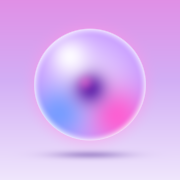
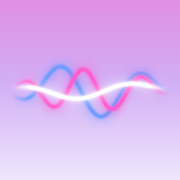
edition update 2026-09-19

Changed region(s): [[0.0833, 0.1389, 0.9167, 0.7778], [0.3056, 0.8333, 0.6944, 0.8889]]

diff --git a/index.html b/index.html
@@ -82,17 +82,11 @@ svg.i{width:20px;height:20px;fill:none;stroke:currentColor;stroke-width:1.6;stro
 .lede{margin:0;color:var(--ink-2);font-size:16px;max-width:32ch;text-wrap:pretty}
 .hero .lede{color:var(--ink);opacity:.75}
 
-.stage{display:flex;flex-direction:column;align-items:center;gap:0;padding-top:6px}
-.orb{--size:164px;--p:0;width:var(--size);aspect-ratio:1;position:relative;border-radius:47% 53% 52% 48%/51% 46% 54% 49%;
-  background:radial-gradient(circle at 32% 24%,rgba(255,255,255,.95) 0,rgba(255,255,255,0) 30%),radial-gradient(circle at 74% 78%,var(--in-b) 0,rgba(255,255,255,0) 52%),radial-gradient(circle at 22% 76%,var(--in-c) 0,rgba(255,255,255,0) 50%),radial-gradient(circle at 50% 50%,#F3E7FF 0,var(--in-a) 100%);
-  box-shadow:inset 0 0 22px rgba(255,255,255,.9),inset -14px -18px 38px rgba(150,50,235,.45),inset 12px 14px 26px rgba(255,255,255,.55),0 0 0 1.5px rgba(255,255,255,.7),0 0 38px rgba(255,120,220,.35);
-  animation:morph 11s ease-in-out infinite;flex:none}
-.orb::before{content:"";position:absolute;inset:0;margin:auto;width:calc(30% + 46% * var(--p));height:calc(30% + 46% * var(--p));border-radius:50%;background:radial-gradient(circle at 40% 35%,var(--in-b),var(--in-core) 70%);filter:blur(7px);opacity:1;transition:width .9s cubic-bezier(.3,1.3,.4,1),height .9s cubic-bezier(.3,1.3,.4,1)}
-.orb::after{content:"";position:absolute;inset:6%;border-radius:inherit;background:radial-gradient(ellipse at 30% 18%,rgba(255,255,255,.75),rgba(255,255,255,0) 38%);mix-blend-mode:screen}
-.orb.out{background:radial-gradient(circle at 32% 24%,rgba(255,255,255,.95) 0,rgba(255,255,255,0) 30%),radial-gradient(circle at 74% 78%,var(--out-b) 0,rgba(255,255,255,0) 52%),radial-gradient(circle at 22% 76%,var(--out-c) 0,rgba(255,255,255,0) 50%),radial-gradient(circle at 50% 50%,#FFF1E6 0,var(--out-a) 100%);box-shadow:inset 0 0 26px rgba(255,255,255,.85),inset -12px -16px 36px rgba(240,80,60,.32),inset 10px 12px 28px rgba(255,255,255,.5),0 0 0 1px rgba(255,255,255,.55)}
-.orb.out::before{background:radial-gradient(circle at 40% 35%,var(--out-b),var(--out-core) 70%)}
-.floor{width:150px;height:16px;border-radius:50%;background:radial-gradient(ellipse,rgba(70,30,140,.30),rgba(70,30,140,0) 70%);margin-top:16px;filter:blur(2px)}
-@keyframes morph{0%,100%{border-radius:47% 53% 52% 48%/51% 46% 54% 49%;transform:translateY(0) rotate(0)}33%{border-radius:53% 47% 46% 54%/46% 54% 48% 52%;transform:translateY(-5px) rotate(4deg)}66%{border-radius:49% 51% 55% 45%/54% 48% 52% 46%;transform:translateY(2px) rotate(-3deg)}}
+.stage{width:calc(100% + 32px);margin-inline:-16px}
+canvas.wave{display:block;width:100%;height:150px;color:var(--ink)}
+canvas.wave.sm{height:66px;margin-top:-6px}
+canvas.wave.bal{height:96px}
+.practice.done canvas.wave{filter:grayscale(1);opacity:.45}
 .count{margin:8px 0 0;font-size:15px;color:var(--ink-2);max-width:32ch;text-wrap:balance}
 .count strong{color:var(--ink);font-weight:600}
 .segs{display:flex;gap:6px;justify-content:center;flex-wrap:wrap;margin-top:2px}
@@ -108,9 +102,9 @@ svg.i{width:20px;height:20px;fill:none;stroke:currentColor;stroke-width:1.6;stro
 .group{background:var(--card);-webkit-backdrop-filter:blur(20px);backdrop-filter:blur(20px);border-radius:26px;box-shadow:var(--shadow);overflow:hidden}
 .group.picks{background:none;-webkit-backdrop-filter:none;backdrop-filter:none;box-shadow:none;overflow:visible;display:flex;flex-direction:column;gap:10px}
 .row{display:flex;gap:13px;padding:16px;width:100%;align-items:flex-start;background:var(--card);-webkit-backdrop-filter:blur(20px);backdrop-filter:blur(20px);border-radius:26px;box-shadow:var(--shadow)}
-.glyph{width:44px;height:44px;border-radius:50%;display:grid;place-items:center;color:var(--ink);flex:none;background:radial-gradient(circle at 30% 25%,#fff,rgba(255,255,255,0) 45%),radial-gradient(circle at 70% 80%,var(--in-b),rgba(255,255,255,0) 60%),var(--in-a);box-shadow:inset 0 0 10px rgba(255,255,255,.8)}
-.glyph.l{background:radial-gradient(circle at 30% 25%,#fff,rgba(255,255,255,0) 45%),radial-gradient(circle at 70% 80%,#9FE3FF,rgba(255,255,255,0) 60%),var(--in-c)}
-.glyph svg.i{width:20px;height:20px;color:#1A0B3A}
+.glyph{width:44px;height:44px;border-radius:50%;display:grid;place-items:center;color:var(--in);flex:none;background:var(--in-soft)}
+.glyph.l{background:color-mix(in srgb,var(--in-c) 20%,var(--card-solid));color:color-mix(in srgb,var(--in-c) 70%,var(--ink))}
+.glyph svg.i{width:20px;height:20px}
 .row-b{flex:1;min-width:0;display:flex;flex-direction:column;gap:5px}
 .meta{font-size:13px;color:var(--ink-3);display:flex;gap:6px;min-width:0;white-space:nowrap;font-variant-numeric:tabular-nums}
 .meta > *{flex:none}.meta > :last-child{flex:0 1 auto;min-width:0;overflow:hidden;text-overflow:ellipsis}.meta > :first-child{flex:none;max-width:64%;overflow:hidden;text-overflow:ellipsis}
@@ -126,20 +120,18 @@ svg.i{width:20px;height:20px;fill:none;stroke:currentColor;stroke-width:1.6;stro
 .tick svg.i{width:13px;height:13px;stroke-width:2.8}
 
 .practice{border-radius:30px;padding:26px 22px 22px;color:var(--ink);background:linear-gradient(160deg,var(--out-a) 0%,#FFD3D6 45%,var(--card-solid) 100%);display:flex;flex-direction:column;align-items:center;text-align:center;gap:12px;width:100%;box-shadow:var(--shadow)}
-.practice .orb{--size:92px;animation-duration:9s}
 .practice .meta{color:var(--ink);opacity:.7;justify-content:center}.practice .meta em{color:var(--ink)}
 .practice h3{margin:0;font-weight:500;font-size:27px;line-height:1.08;letter-spacing:-.035em;text-wrap:balance;max-width:14em}
 .practice p{margin:0;font-size:15px;color:var(--ink);opacity:.72;display:-webkit-box;-webkit-line-clamp:2;-webkit-box-orient:vertical;overflow:hidden;max-width:36ch}
 .pill{display:inline-flex;align-items:center;gap:8px;background:var(--btn);color:var(--btn-ink);font-weight:500;font-size:16px;border-radius:999px;padding:13px 24px;margin-top:4px}
 .pill svg.i{width:14px;height:14px;fill:currentColor;stroke:none}
 .practice.done{background:var(--card)}
-.practice.done .orb{filter:grayscale(1);opacity:.45;animation:none}
 .practice.done h3,.practice.done p{color:var(--ink-3)}
 @media (prefers-color-scheme:dark){:root:not([data-theme="light"]) .practice:not(.done){background:linear-gradient(160deg,#7A3522 0%,#4A2236 50%,var(--card-solid) 100%)}}
 :root[data-theme="dark"] .practice:not(.done){background:linear-gradient(160deg,#7A3522 0%,#4A2236 50%,var(--card-solid) 100%)}
 
 .resurface{background:var(--card);border-radius:26px;padding:16px 18px;display:flex;gap:14px;align-items:center;width:100%;box-shadow:var(--shadow)}
-.resurface .glyph{background:radial-gradient(circle at 30% 25%,#fff,rgba(255,255,255,0) 45%),radial-gradient(circle at 70% 80%,var(--out-b),rgba(255,255,255,0) 60%),var(--out-a)}
+.resurface .glyph{background:var(--out-soft);color:var(--out)}
 .resurface strong{display:block;font-size:17px;font-weight:500;letter-spacing:-.015em}
 .resurface small{font-size:14px;color:var(--ink-2)}
 
@@ -181,7 +173,9 @@ input::placeholder,textarea::placeholder{color:var(--ink-3)}
 .act.closed .meta em{color:var(--ink)}
 
 .ratio{display:flex;flex-direction:column;gap:16px;background:var(--card);-webkit-backdrop-filter:blur(20px);backdrop-filter:blur(20px);border-radius:30px;padding:24px 20px 20px;box-shadow:var(--shadow)}
-.duo{display:grid;grid-template-columns:1fr 1fr;align-items:end;justify-items:center;gap:8px;min-height:150px}
+.duo{display:grid;grid-template-columns:1fr 1fr;align-items:end;justify-items:center;gap:8px}
+.duo .n small::before{content:"";display:inline-block;width:8px;height:8px;border-radius:50%;background:var(--in);margin-right:6px}
+.duo .n + .n small::before{background:var(--out)}
 .duo .n{display:flex;flex-direction:column;align-items:center;gap:10px}
 .duo .n b{font-size:36px;font-weight:500;line-height:1;letter-spacing:-.04em;font-variant-numeric:tabular-nums}
 .duo .n small{font-size:14px;color:var(--ink-2);margin-top:-6px}
@@ -212,8 +206,8 @@ details.more[open] summary{border-bottom:1px solid var(--line)}
 .compass h4{margin:0 0 8px;font-size:13px;font-weight:400;color:var(--ink-3)}
 .compass ul{margin:0;padding:0;list-style:none;display:flex;flex-direction:column;gap:8px}
 .compass li{font-size:16px;padding-left:18px;position:relative;letter-spacing:-.01em}
-.compass li::before{content:"";position:absolute;left:0;top:.42em;width:9px;height:9px;border-radius:50%;background:radial-gradient(circle at 30% 30%,#fff,var(--in-a) 55%,var(--in))}
-.compass .per li::before{background:radial-gradient(circle at 30% 30%,#fff,var(--out-a) 55%,var(--out))}
+.compass li::before{content:"";position:absolute;left:0;top:.42em;width:9px;height:9px;border-radius:50%;background:var(--in)}
+.compass .per li::before{background:var(--out)}
 
 .tabs{position:fixed;left:0;right:0;bottom:0;z-index:20;display:flex;justify-content:center;padding:8px 18px calc(14px + env(safe-area-inset-bottom,0px));pointer-events:none}
 .tabs-in{pointer-events:auto;display:flex;gap:2px;padding:6px;min-width:min(300px,84vw);justify-content:space-between;border-radius:999px;background:color-mix(in srgb,var(--card-solid) 88%,transparent);-webkit-backdrop-filter:saturate(1.6) blur(20px);backdrop-filter:saturate(1.6) blur(20px);box-shadow:0 0 0 1px var(--line),0 16px 40px -12px rgba(50,20,110,.35)}
@@ -347,7 +341,7 @@ function openActions(){return Object.keys(S.actions).map(function(k){return S.ac
 
 /* ---------- views ---------- */
 function render(){var keep=$("#newAction"),kv=keep?keep.value:"",kf=keep&&document.activeElement===keep;
-  var h=S.view==="today"?viewToday():S.view==="do"?viewDo():viewBalance();var ap=$("#app");ap.className="app v-"+S.view;ap.innerHTML=h;renderTabs();
+  var h=S.view==="today"?viewToday():S.view==="do"?viewDo():viewBalance();var ap=$("#app");ap.className="app v-"+S.view;ap.innerHTML=h;renderTabs();try{var wc=ap.querySelectorAll("canvas.wave");for(var wi=0;wi<wc.length;wi++)drawWave(wc[wi],still?0:performance.now()/1000)}catch(e){}
   var n=$("#newAction");if(n&&kv){n.value=kv}if(n&&kf){n.focus()}}
 function renderTabs(){var n=openActions().length;$("#tabs").innerHTML=[["today","Today","today"],["do","Do","do"],["balance","Balance","bal"]].map(function(t){
   return '<button class="tab" data-tab="'+t[0]+'"'+(S.view===t[0]?' aria-current="page"':'')+'>'+ic(t[2])+'<span>'+t[1]+'</span>'+(t[0]==="do"&&n?'<span class="badge">'+n+'</span>':'')+'</button>'}).join("")}
@@ -372,13 +366,13 @@ function viewToday(){
   if(S.mode==="demo")h+='<div class="banner">Example edition. Open this page on claude.ai to load your real picks and keep your progress.</div>';
   else if(day.date<TODAY&&S.date===editions().slice(-1)[0])h+='<div class="banner">Latest edition is from '+esc(fmtDate(day.date,true))+". Today's has not been written yet.</div>";
   var pr0=total?doneM/total:0,chk=function(d,t){return t&&d>=t?ic("check"):""},sg=function(l,d,t){return t?'<span class="seg'+(d>=t?" on":"")+'">'+chk(d,t)+l+" "+mins(t)+'</span>':""};
-  h+='<section class="hero">'+stepper(day)+'<h1 class="thesis">'+esc(day.thesis)+'</h1><div class="stage"><div class="orb" style="--p:'+pr0.toFixed(2)+'" role="img" aria-label="'+Math.round(pr0*100)+' percent of today done"></div><div class="floor"></div></div><p class="load"><b>'+mins(doneM)+'</b> of '+mins(total)+'</p><div class="segs">'+sg("Desk",b.deskD,b.desk)+sg("Ears",b.earsD,b.ears)+sg("Without AI",b.pracD,b.prac)+'</div></section>';
+  h+='<section class="hero">'+stepper(day)+'<h1 class="thesis">'+esc(day.thesis)+'</h1><div class="stage"><canvas class="wave" data-key="hero" data-p="'+pr0.toFixed(2)+'" role="img" aria-label="'+Math.round(pr0*100)+' percent of today done"></canvas></div><p class="load"><b>'+mins(doneM)+'</b> of '+mins(total)+'</p><div class="segs">'+sg("Desk",b.deskD,b.desk)+sg("Ears",b.earsD,b.ears)+sg("Without AI",b.pracD,b.prac)+'</div></section>';
   if(allDone)h+='<div class="donecard"><h3>That was today.</h3><p>Everything else in your inbox lost the comparison. Close the app and go do something with it.</p></div>';
   if(desk.length)h+='<section class="sec"><div class="sec-h"><h2>At the desk</h2><span>focused · '+mins(b.desk)+'</span></div><div class="group picks">'+desk.map(function(p){return pickRow(day,p)}).join("")+'</div></section>';
   if(ears.length)h+='<section class="sec"><div class="sec-h"><h2>In your ears</h2><span>commute, easy sessions · '+mins(b.ears)+'</span></div><div class="group picks">'+ears.map(function(p){return pickRow(day,p)}).join("")+'</div></section>';
   var rv=dueReview();
   if(day.practice||rv){h+='<section class="sec"><div class="sec-h"><h2>Without AI</h2><span>your brain only</span></div>';
-    if(day.practice){var pd=(s.practice||{}).done,pr=day.practice;h+='<button class="practice'+(pd?" done":"")+'" data-practice="1"><span class="orb out" style="--p:'+(pd?1:.2)+'"></span><span class="meta"><em>'+esc(pr.type||"Practice")+'</em><span>no AI, no search</span></span><h3>'+esc(pr.title)+'</h3><p>'+esc(pr.prompt)+'</p><span class="pill">'+(pd?ic("check")+"Done":"Start · "+mins(pr.minutes)+ic("play"))+'</span></button>'}
+    if(day.practice){var pd=(s.practice||{}).done,pr=day.practice;h+='<button class="practice'+(pd?" done":"")+'" data-practice="1"><canvas class="wave sm" data-key="prac" data-tone="out" data-p="'+(pd?1:.3)+'"></canvas><span class="meta"><em>'+esc(pr.type||"Practice")+'</em><span>no AI, no search</span></span><h3>'+esc(pr.title)+'</h3><p>'+esc(pr.prompt)+'</p><span class="pill">'+(pd?ic("check")+"Done":"Start · "+mins(pr.minutes)+ic("play"))+'</span></button>'}
     if(rv)h+='<button class="resurface" data-review="1"><span class="glyph">'+ic("loop")+'</span><span><strong>What do you still remember?</strong><small>'+rv.age+' days ago: '+esc(rv.pick.title)+'</small></span></button>';
     h+='</section>'}
   if((day.cuts||[]).length)h+='<details class="cuts"><summary><span>Left out today, and why</span>'+ic("r")+'</summary><ul>'+day.cuts.map(function(c){return '<li><b>'+esc(c.title)+'</b><span>'+esc(c.source)+' · '+esc(c.reason)+'</span></li>'}).join("")+'</ul></details>';
@@ -400,7 +394,7 @@ function viewBalance(){var last=[],I=0,O=0,M=0,PM=0;for(var k=6;k>=0;k--){var d=
   var month=TODAY.slice(0,7),tried=Object.keys(S.actions).filter(function(k){var a=S.actions[k];return a.status==="done"&&(a.doneAt||"").slice(0,7)===month}).length;
   var verdict=I+O===0?"<b>Nothing logged yet.</b> Finish one pick and write down what you remember.":O>=I?"<b>You produce at least as much as you take in.</b> This is the ratio to protect.":O*2>=I?"<b>Healthy.</b> At least one output for every two inputs.":"<b>Consumption is ahead.</b> Skip a pick tomorrow and do the practice rep first.";
   var h=top()+'<section class="hero"><span class="eyebrow">Last 7 days</span><h1 class="h1">Taking in versus putting out.</h1></section>';
-  h+='<section class="ratio"><div class="duo"><div class="n"><span class="orb" style="--size:'+Math.round(64+86*(I/Math.max(1,I+O)))+'px;--p:.5"></span><b>'+I+'</b><small>taken in</small></div><div class="n"><span class="orb out" style="--size:'+Math.round(64+86*(O/Math.max(1,I+O)))+'px;--p:.5"></span><b>'+O+'</b><small>put out</small></div></div><p class="verdict">'+verdict+'</p><div class="week">'+last.map(function(x){return '<div class="day'+(x.d===TODAY?" today":"")+'"><div class="cols"><u class="'+(x.t.i?"":"z")+'" style="height:'+Math.round(x.t.i/mx*100)+'%"></u><u class="'+(x.t.o?"":"z")+'" style="height:'+Math.round(x.t.o/mx*100)+'%"></u></div><small>'+esc(x.l)+'</small></div>'}).join("")+'</div><p class="note" style="text-align:left">Outputs: recall notes, practice reps, memory checks, actions you completed.</p></section>';
+  h+='<section class="ratio"><canvas class="wave bal" data-key="bal" data-tone="bal" data-p="'+(I+O===0?.5:Math.min(1,O/Math.max(.5,I*.5))).toFixed(2)+'" role="img" aria-label="Balance of inputs and outputs"></canvas><div class="duo"><div class="n"><b>'+I+'</b><small>taken in</small></div><div class="n"><b>'+O+'</b><small>put out</small></div></div><p class="verdict">'+verdict+'</p><div class="week">'+last.map(function(x){return '<div class="day'+(x.d===TODAY?" today":"")+'"><div class="cols"><u class="'+(x.t.i?"":"z")+'" style="height:'+Math.round(x.t.i/mx*100)+'%"></u><u class="'+(x.t.o?"":"z")+'" style="height:'+Math.round(x.t.o/mx*100)+'%"></u></div><small>'+esc(x.l)+'</small></div>'}).join("")+'</div><p class="note" style="text-align:left">Outputs: recall notes, practice reps, memory checks, actions you completed.</p></section>';
   h+='<section class="tiles"><div class="tile"><b>'+streak+'</b><small>day streak with an output</small></div><div class="tile"><b>'+mins(M).replace(" min","m")+'</b><small>taken in, '+(M?Math.round(PM/M*100):0)+'% personal</small></div><div class="tile"><b>'+tried+'</b><small>experiments this month</small></div></section>';
   var src=((S.meta.sources||{}).sources||[]).slice().sort(function(a,b){return (b.picked/(b.scanned||1))-(a.picked/(a.scanned||1))||b.scanned-a.scanned});
   var srow=function(x){var cut=x.scanned>=3&&!x.picked;return '<div class="src"><span class="src-n">'+esc(x.name)+'</span>'+(cut?'<span class="tag">cut candidate</span>':x.picked?'<span class="tag keep">earning it</span>':'')+'<span class="src-c">'+(+x.picked||0)+' / '+(+x.scanned||0)+'</span></div>'};
@@ -462,6 +456,20 @@ document.addEventListener("submit",function(ev){if(ev.target.id!=="addForm")retu
 document.addEventListener("keydown",function(ev){if(ev.key==="Escape"&&S.sheet)closeSheet()});
 function saveNote(date,v){saveState(date,function(x){x.practice=x.practice||{};x.practice.note=(v||"").trim()})}
 function addAction(text,from){var now=new Date(),due=new Date(now.getTime()+48*36e5);saveAction({id:uid(),text:text,from:from,createdAt:now.toISOString(),dueAt:due.toISOString(),status:"open"})}
+
+/* ---------- wave: restless lines that calm down as the day gets done ---------- */
+var waveP={},TONES={in:["111,155,255","255,92,208","255,255,255"],out:["255,200,90","255,110,130","255,255,255"],bal:["123,69,224","228,87,46",null]};
+var still=window.matchMedia&&window.matchMedia("(prefers-reduced-motion: reduce)").matches;
+function drawWave(c,t){var b=c.getBoundingClientRect();if(!b.width)return;var d=Math.min(window.devicePixelRatio||1,3);
+  if(c._w!==b.width||c._h!==b.height){c._w=b.width;c._h=b.height;c.width=Math.round(b.width*d);c.height=Math.round(b.height*d)}
+  var x=c.getContext("2d");x.setTransform(d,0,0,d,0,0);x.clearRect(0,0,c._w,c._h);
+  var key=c.dataset.key||"w",target=+c.dataset.p||0,cur=waveP[key];if(cur==null)cur=target;cur+=(target-cur)*.045;if(Math.abs(target-cur)<.002)cur=target;waveP[key]=cur;
+  var amp=1-cur,w=c._w,h=c._h,mid=h*.5,tone=TONES[c.dataset.tone||"in"],ink=getComputedStyle(c).color.replace(/[^0-9,]/g,"").split(",").slice(0,3).join(",");
+  [[1.1,0,.75],[1.7,2,.75],[.8,4,.95]].forEach(function(L,j){var col=tone[j]||ink;x.beginPath();
+    for(var i=0;i<=w;i+=3){var u=i/w,env=Math.sin(u*Math.PI),y=mid+env*amp*(Math.sin(u*9*L[0]+t*(.7+j*.2)+L[1])*h*.2+Math.sin(u*23+t*1.3+j)*h*.075*amp)+env*Math.sin(u*3+t*.5+j)*h*.022;i?x.lineTo(i,y):x.moveTo(i,y)}
+    x.lineCap="round";x.lineJoin="round";x.strokeStyle="rgba("+col+",.16)";x.lineWidth=j===2?9:7;x.stroke();x.strokeStyle="rgba("+col+","+L[2]+")";x.lineWidth=j===2?2.6:1.9;x.stroke()})}
+function waveLoop(ts){if(!document.hidden&&(!waveLoop.last||ts-waveLoop.last>30)){waveLoop.last=ts;var cs=document.querySelectorAll("canvas.wave");for(var i=0;i<cs.length;i++)drawWave(cs[i],still?0:ts/1000)}requestAnimationFrame(waveLoop)}
+requestAnimationFrame(waveLoop);
 
 /* ---------- boot ---------- */
 function useDemo(){var d=JSON.parse($("#demo").textContent);S.days={DEMO:d};S.date="DEMO";S.states=ls("states")||{};S.actions=ls("actions")||{};S.mode="demo";render()}
